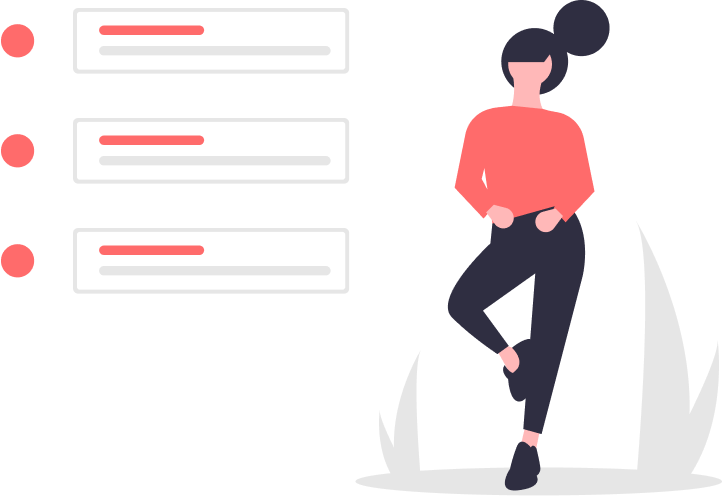
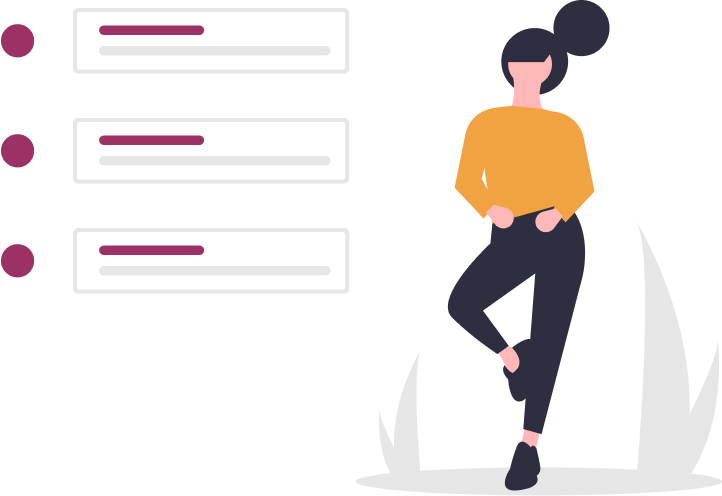
color changing (new palette)

diff --git a/style/style.css b/style/style.css
@@ -71,13 +71,13 @@ nav {
 }
 
 .aa {
-  background-color: #ff6b6b;
-  border-color: #ff6b6b;
+  background-color: #f2a341;
+  border-color: #f2a341;
 }
 
 .ab {
-  background-color: #4ecdc4;
-  border-color: #4ecdc4;
+  background-color: #9b3164;
+  border-color: #9b3164;
 }
 
 #logo {
@@ -181,7 +181,7 @@ nav {
 
 .vermas-button {
   background: transparent;
-  color: #ff6b6b;
+  color: #f2a341;
 }
 
 /* HERO SECTION */
@@ -207,18 +207,18 @@ nav {
 }
 
 #hero .productos-button {
-  background-color: #4ecdc4;
+  background-color: #9b3164;
   color: white;
-  border-color: #4ecdc4;
+  border-color: #9b3164;
 }
 
 #hero .vermas-button {
   background: transparent;
-  color: #4ecdc4;
+  color: #9b3164;
 }
 
 #hero .vermas-button button {
-  border: 2px solid #4ecdc4;
+  border: 2px solid #9b3164;
 }
 
 .hero-text h2 {
@@ -342,8 +342,8 @@ a {
 
 button {
   padding: 1rem 3.5rem;
-  background: #ff6b6b;
-  border: 2px solid #ff6b6b;
+  background: #f2a341;
+  border: 2px solid #f2a341;
   color: white;
   border-radius: 20px;
   cursor: pointer;
@@ -355,7 +355,7 @@ buttonhover {
 
 #modulos {
   min-height: 110vh;
-  background: #4ecdc4;
+  background: #9b3164;
   position: relative;
   display: -webkit-box;
   display: -ms-flexbox;
@@ -505,6 +505,11 @@ buttonhover {
   text-decoration: line-through;
 }
 
+.comprar-button {
+  background: #9b3164;
+  border-color: #9b3164;
+}
+
 #newsletter {
   width: 90%;
   margin: auto;
@@ -524,6 +529,11 @@ buttonhover {
           flex-direction: row;
   -ms-flex-wrap: nowrap;
       flex-wrap: nowrap;
+}
+
+#newsletter button {
+  background-color: #9b3164;
+  border-color: #9b3164;
 }
 
 .contact {
@@ -617,7 +627,7 @@ input:focus {
 }
 
 #success h2 {
-  color: #4ecdc4;
+  color: #9b3164;
 }
 
 #success p {
@@ -847,7 +857,7 @@ input:focus {
   -webkit-box-direction: normal;
       -ms-flex-direction: column;
           flex-direction: column;
-  background-color: #ff6b6b;
+  background-color: #f2a341;
   color: white;
   text-align: center;
 }
@@ -888,7 +898,7 @@ footer {
   -webkit-box-direction: normal;
       -ms-flex-direction: column;
           flex-direction: column;
-  background-color: #ff6b6b;
+  background-color: #f2a341;
   text-align: center;
 }
 
@@ -962,34 +972,36 @@ footer h2 {
     -webkit-box-direction: normal;
         -ms-flex-direction: column;
             flex-direction: column;
-    -webkit-box-pack: center;
-        -ms-flex-pack: center;
-            justify-content: center;
+    -ms-flex-pack: distribute;
+        justify-content: space-around;
+    width: 100%;
   }
   #curso button {
     margin-bottom: 5rem;
   }
-  .hero-text {
-    margin-bottom: 8rem;
+  #curso .hero-text {
+    width: 100%;
   }
-  .image-container img {
-    height: 20rem;
+  #curso .image-container img {
+    width: 100%;
+    height: 100%;
+  }
+  .button-container {
+    width: 100%;
   }
   #hero {
     -webkit-box-orient: vertical;
     -webkit-box-direction: normal;
         -ms-flex-direction: column;
             flex-direction: column;
-    -webkit-box-pack: center;
-        -ms-flex-pack: center;
-            justify-content: center;
+    -ms-flex-pack: distribute;
+        justify-content: space-around;
     width: 100%;
   }
   #hero button {
     margin-bottom: 5rem;
   }
   #hero .hero-text {
-    margin-bottom: 8rem;
     width: 100%;
   }
   #hero .image-container img {
@@ -1009,6 +1021,10 @@ footer h2 {
     -webkit-box-ordinal-group: 3;
         -ms-flex-order: 2;
             order: 2;
+  }
+  #price .image-container img {
+    width: 100%;
+    height: 100%;
   }
   #price .text-container {
     -webkit-box-align: center;

diff --git a/style/style.scss b/style/style.scss
@@ -3,8 +3,8 @@ $header2: 4rem;
 $header3: 2.5rem;
 $header4: 2rem;
 $text: 1.8rem;
-$main-pink: #ff6b6b;
-$main-green: #4ecdc4;
+$main-pink: #f2a341;
+$main-green: #9b3164;
 $dark-blue: #242424;
 
 @mixin flex($justify, $align, $direction) {
@@ -82,28 +82,33 @@ $breakpoint2: 890px;
   }
   #curso {
     flex-direction: column;
-    justify-content: center;
-    button {
-      margin-bottom: 5rem;
-    }
-  }
-  .hero-text {
-    margin-bottom: 8rem;
-  }
-  .image-container {
-    img {
-      height: 20rem;
-    }
-  }
-  #hero {
-    flex-direction: column;
-    justify-content: center;
+    justify-content: space-around;
     width: 100%;
     button {
       margin-bottom: 5rem;
     }
     .hero-text {
-      margin-bottom: 8rem;
+      width: 100%;
+    }
+    .image-container {
+      img {
+        width: 100%;
+        height: 100%;
+      }
+    }
+  }
+  .button-container {
+    width: 100%;
+  }
+
+  #hero {
+    flex-direction: column;
+    justify-content: space-around;
+    width: 100%;
+    button {
+      margin-bottom: 5rem;
+    }
+    .hero-text {
       width: 100%;
     }
     .image-container {
@@ -121,6 +126,10 @@ $breakpoint2: 890px;
     text-align: center;
     .image-container {
       order: 2;
+      img {
+        width: 100%;
+        height: 100%;
+      }
     }
     .text-container {
       align-items: center;

diff --git a/curso.html b/curso.html
@@ -90,7 +90,7 @@
     </section>
     <section id="price">
       <div class="image-container">
-        <img src="./img/girl2.png" alt="Girl" />
+        <img src="./img/girl2.png" alt="Girl" class="photos" />
       </div>
       <div class="text-container">
         <h2>
@@ -103,7 +103,7 @@
         <h3><strong>$599</strong></h3>
         <a
           href="https://www.mercadopago.com.ar/checkout/v1/redirect?pref_id=380567880-c19381d5-f020-44a6-88c2-742f3f830ce8"
-          ><button href>Comprar</button></a
+          ><button class="comprar-button">Comprar</button></a
         >
       </div>
     </section>

diff --git a/style/_form.scss b/style/_form.scss
@@ -1,4 +1,8 @@
 #newsletter {
+  button {
+    background-color: $main-green;
+    border-color: $main-green;
+  }
   width: 90%;
   margin: auto;
   min-height: 80vh;

diff --git a/style/_price.scss b/style/_price.scss
@@ -25,3 +25,7 @@
     }
   }
 }
+.comprar-button {
+  background: $main-green;
+  border-color: $main-green;
+}
